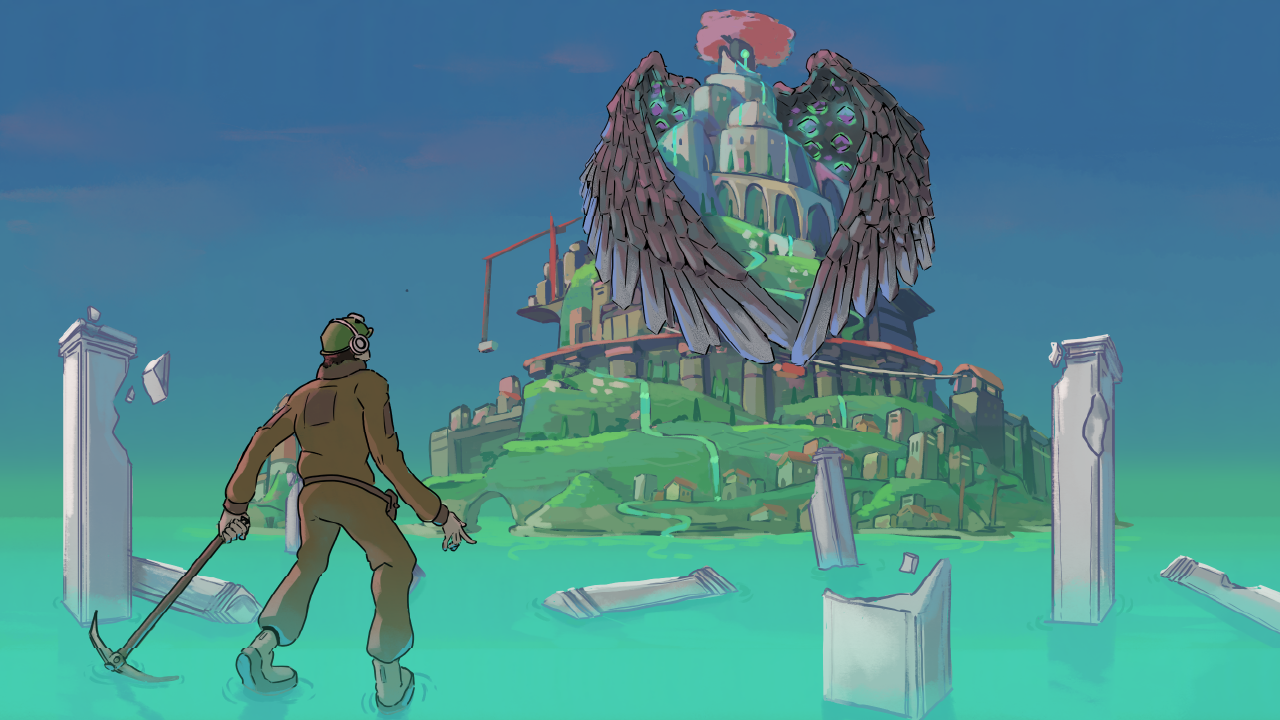
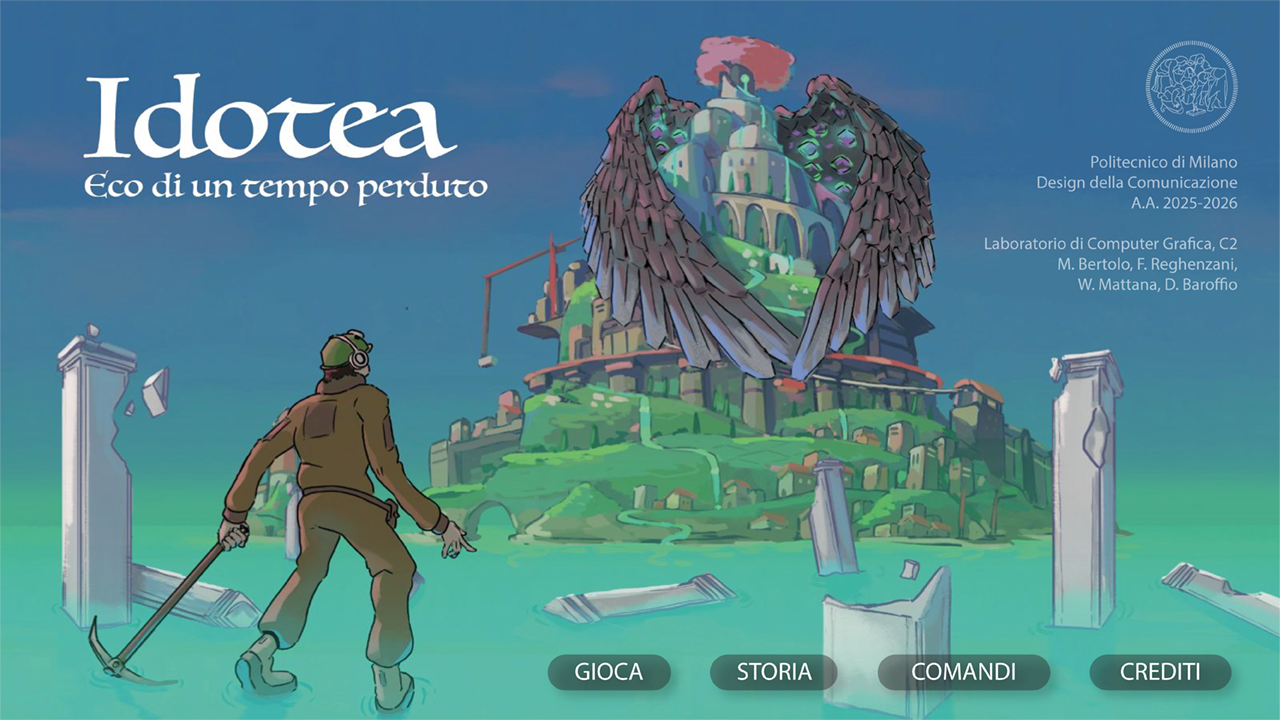
Add commands scene and update menu interactions

diff --git a/src/scenes/menu.js b/src/scenes/menu.js
@@ -1,8 +1,30 @@
 let img_copertina;
-let menu_selected = 0; // 0 = Gioca, 1 = Tavole, 2 = Crediti
-let menu_options = [];
+let menu_selected = 0; // 0 = Gioca, 1 = Storia, 2 = Comandi, 3 = Crediti
+let menu_hitboxes = [];
+let menu_highlight_layers = []; // Array di rettangoli per effetto sfumato
 let menu_key_was_pressed = false;
 let menu_scene_ref = null;
+
+// Configurazione sfumatura highlight
+let layers_config = [
+    { expand: 30, alpha: 0.05 },  // Layer esterno - molto trasparente
+    { expand: 22, alpha: 0.10 },
+    { expand: 15, alpha: 0.15 },
+    { expand: 10, alpha: 0.20 },
+    { expand: 5,  alpha: 0.25 },  // Layer interno - più opaco
+];
+
+// Colore highlight (modifica qui)
+let highlight_color = "0x1E90FF";
+
+// COORDINATE DEI BOTTONI NEL PNG (centro X, centro Y, larghezza, altezza)
+// Modifica questi valori per allinearli ai bottoni nella copertina
+let button_configs = [
+    { x: 610, y: 670, w: 120, h: 35 },  // GIOCA
+    { x: 775, y: 672, w: 115, h: 35 },  // STORIA
+    { x: 966, y: 670, w: 160, h: 35 },  // COMANDI
+    { x: 1163, y: 670, w: 130, h: 35 }   // CREDITI
+];
 
 function preload(s) {
     img_copertina = PP.assets.image.load(s, "assets/images/copertina.png");
@@ -18,54 +40,75 @@ function create(s) {
     PP.game_state.set_variable("coins", 0);
     PP.game_state.set_variable("HP", 3);
 
-    // Titolo
-    PP.shapes.text_styled_add(s, 
-        PP.game.config.canvas_width / 2,
-        200,
-        "Idotea",
-        50,
-        "Georgia",
-        "bold",
-        "0xFFFFFF",
-        null,
-        0.5,
-        0.5
-    );
-
     menu_selected = 0;
-    menu_options = [];
-    create_menu_options(s);
+    menu_hitboxes = [];
+    menu_highlight_layers = [];
     
-    menu_key_was_pressed = true; // Evita input immediato all'avvio
+    // Crea highlight iniziale
+    create_highlight_layers(s, button_configs[0]);
+    
+    // Crea hitbox invisibili per ogni bottone
+    for (let i = 0; i < button_configs.length; i++) {
+        let cfg = button_configs[i];
+        let hitbox = PP.shapes.rectangle_add(s, cfg.x, cfg.y, cfg.w, cfg.h, "0xFF0000", 0);
+        hitbox.button_index = i;
+        
+        // Aggiungi interazione mouse
+        PP.interactive.mouse.add(hitbox, "pointerover", function() {
+            menu_selected = i;
+            update_highlight(s);
+        });
+        
+        PP.interactive.mouse.add(hitbox, "pointerdown", function() {
+            activate_menu_option(menu_selected);
+        });
+        
+        menu_hitboxes.push(hitbox);
+    }
+    
+    menu_key_was_pressed = true;
 }
-function create_menu_options(s) {
-    // Distruggi opzioni esistenti
-    for (let i = 0; i < menu_options.length; i++) {
-        if (menu_options[i]) {
-            PP.shapes.destroy(menu_options[i]);
+
+function create_highlight_layers(s, cfg) {
+    // Distruggi layer esistenti
+    for (let i = 0; i < menu_highlight_layers.length; i++) {
+        if (menu_highlight_layers[i]) {
+            PP.shapes.destroy(menu_highlight_layers[i]);
         }
     }
-    menu_options = [];
+    menu_highlight_layers = [];
     
-    let labels = ["Gioca", "Storia", "Crediti"];
-    let yPositions = [420, 500, 580];
-    
-    for (let i = 0; i < 3; i++) {
-        let color = (i === menu_selected) ? "0xFFFFFF" : "0x666666";
-        
-        let opt = PP.shapes.text_styled_add(s, 
-            PP.game.config.canvas_width / 2,
-            yPositions[i],
-            labels[i],
-            45,
-            "Georgia",
-            "normal",
-            color,
-            null,
-            0.5,
-            0.5
+    // Crea nuovi layer con le dimensioni del bottone selezionato
+    for (let i = 0; i < layers_config.length; i++) {
+        let lc = layers_config[i];
+        let layer = PP.shapes.rectangle_add(s, 
+            cfg.x, 
+            cfg.y, 
+            cfg.w + lc.expand * 2, 
+            cfg.h + lc.expand, 
+            highlight_color,
+            lc.alpha
         );
-        menu_options.push(opt);
+        PP.layers.set_z_index(layer, 99 + i);
+        menu_highlight_layers.push(layer);
+    }
+}
+
+function update_highlight(s) {
+    if (button_configs[menu_selected]) {
+        create_highlight_layers(s, button_configs[menu_selected]);
+    }
+}
+
+function activate_menu_option(index) {
+    if (index === 0) {
+        PP.scenes.start("lvl1_pt1");
+    } else if (index === 1) {
+        PP.scenes.start("tavole");
+    } else if (index === 2) {
+        PP.scenes.start("comandi");
+    } else if (index === 3) {
+        PP.scenes.start("crediti");
     }
 }
 
@@ -86,39 +129,30 @@ function update(s) {
         // Navigazione su
         if (up_pressed) {
             menu_selected--;
-            if (menu_selected < 0) menu_selected = 2;
-            create_menu_options(s);
+            if (menu_selected < 0) menu_selected = 3;
+            update_highlight(s);
             menu_key_was_pressed = true;
         }
         
         // Navigazione giù
         if (down_pressed) {
             menu_selected++;
-            if (menu_selected > 2) menu_selected = 0;
-            create_menu_options(s);
+            if (menu_selected > 3) menu_selected = 0;
+            update_highlight(s);
             menu_key_was_pressed = true;
         }
         
         // Conferma selezione
         if (space_pressed || enter_pressed) {
             menu_key_was_pressed = true;
-            
-            if (menu_selected === 0) {
-                // GIOCA
-                PP.scenes.start("lvl3");
-            } else if (menu_selected === 1) {
-                // TAVOLE
-                PP.scenes.start("tavole");
-            } else if (menu_selected === 2) {
-                // CREDITI
-                PP.scenes.start("crediti");
-            }
+            activate_menu_option(menu_selected);
         }
     }
 }
 
 function destroy(s) {
-    menu_options = [];
+    menu_highlight_layers = [];
+    menu_hitboxes = [];
     menu_scene_ref = null;
 }
 

diff --git a/src/scenes/comandi.js b/src/scenes/comandi.js
@@ -1,0 +1,91 @@
+let comandi_bg;
+let comandi_title;
+let comandi_text;
+let comandi_key_was_pressed = false;
+
+function preload(s) {
+    // Nessun asset specifico da caricare
+}
+
+function create(s) {
+    // Sfondo scuro
+    comandi_bg = PP.shapes.rectangle_add(s, 640, 360, 1280, 720, "0x1a1a2e", 1);
+    
+    // Titolo
+    comandi_title = PP.shapes.text_styled_add(s,
+        640, 80,
+        "COMANDI",
+        50,
+        "Georgia",
+        "bold",
+        "0xFFFFFF",
+        null,
+        0.5, 0.5
+    );
+    
+    // Lista comandi
+    let comandi_lista = [
+        "← →  -  Muoviti a sinistra/destra",
+        "↑  -  Arrampicati sulle scale",
+        "SPAZIO  -  Salta",
+        "E  -  Interagisci / Parla con NPC",
+        "R  -  Rompi muri (quando vicino)",
+        "",
+        "ESC  -  Torna al menu"
+    ];
+    
+    let y_start = 200;
+    let y_spacing = 60;
+    
+    for (let i = 0; i < comandi_lista.length; i++) {
+        PP.shapes.text_styled_add(s,
+            640, y_start + (i * y_spacing),
+            comandi_lista[i],
+            30,
+            "Georgia",
+            "normal",
+            "0xCCCCCC",
+            null,
+            0.5, 0.5
+        );
+    }
+    
+    // Hint per tornare indietro
+    PP.shapes.text_styled_add(s,
+        640, 650,
+        "Premi ESC, SPAZIO o ENTER per tornare al menu",
+        20,
+        "Georgia",
+        "italic",
+        "0x888888",
+        null,
+        0.5, 0.5
+    );
+    
+    comandi_key_was_pressed = true;
+}
+
+function update(s) {
+    let esc_pressed = PP.interactive.kb.is_key_down(s, PP.key_codes.ESC);
+    let space_pressed = PP.interactive.kb.is_key_down(s, PP.key_codes.SPACE);
+    let enter_pressed = PP.interactive.kb.is_key_down(s, PP.key_codes.ENTER);
+    
+    let any_key = esc_pressed || space_pressed || enter_pressed;
+    
+    if (!any_key) {
+        comandi_key_was_pressed = false;
+    }
+    
+    if (!comandi_key_was_pressed) {
+        if (any_key) {
+            comandi_key_was_pressed = true;
+            PP.scenes.start("main_menu");
+        }
+    }
+}
+
+function destroy(s) {
+    // Cleanup
+}
+
+PP.scenes.add("comandi", preload, create, update, destroy);

diff --git a/index.html b/index.html
@@ -23,6 +23,7 @@
     <script src="src/scenes/menu.js" type="module"></script>
     <script src="src/scenes/game_over.js" type="module"></script>
     <script src="src/scenes/tavole.js" type="module"></script>
+    <script src="src/scenes/comandi.js" type="module"></script>
     <script src="src/scenes/crediti.js" type="module"></script>
     <script src="src/scenes/lvl1_pt1.js" type="module"></script>
     <script src="src/scenes/lvl1_pt2.js" type="module"></script>
